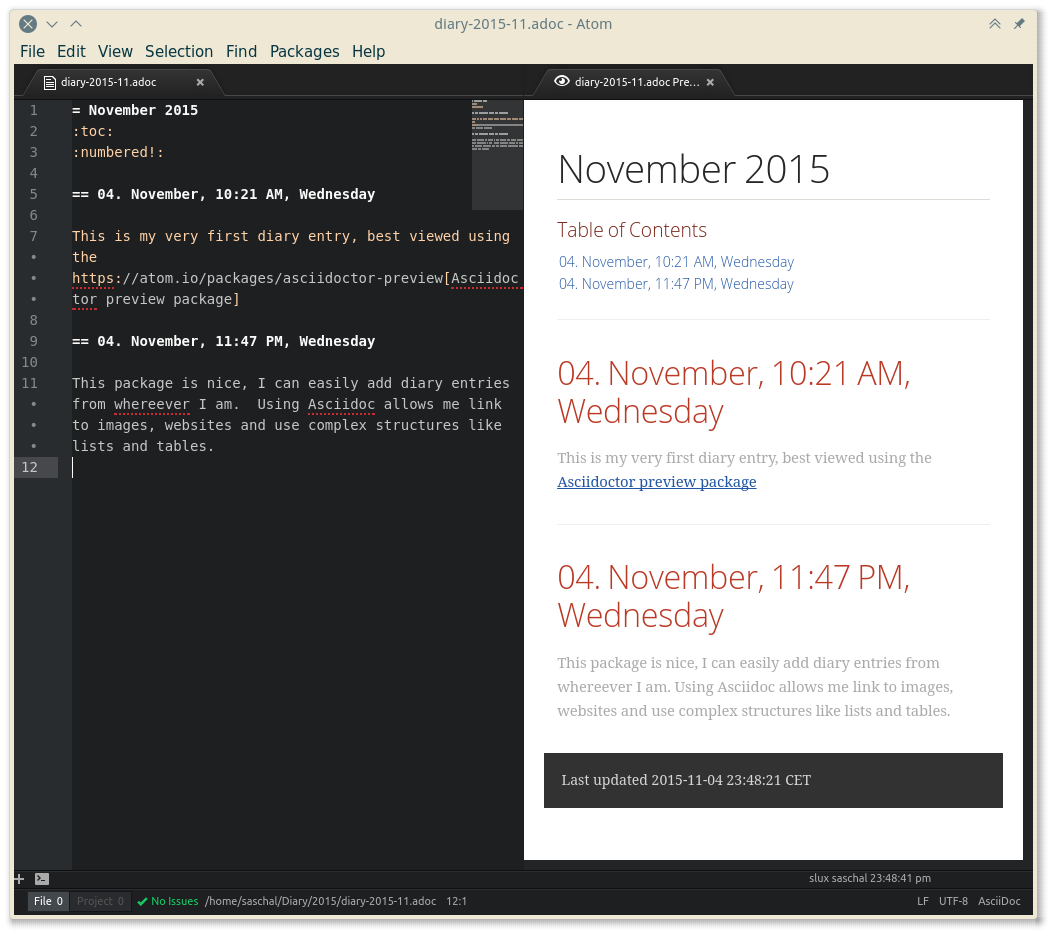
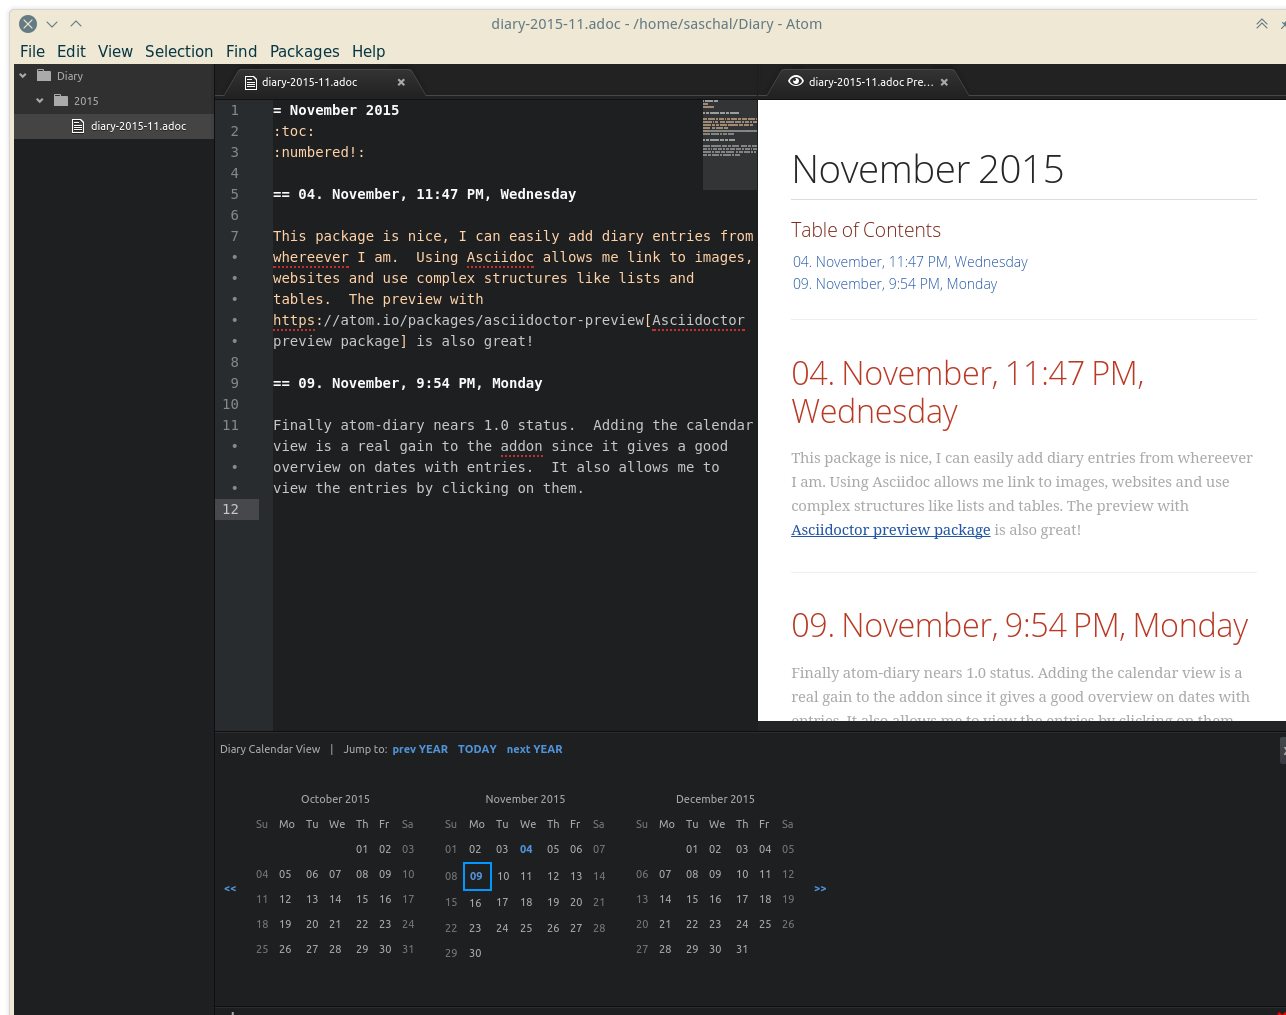
Make use of atom theme colors Improved README.md

diff --git a/styles/calendar-view.less b/styles/calendar-view.less
@@ -1,11 +1,8 @@
-@dark-grey: #8f8f8f;
-@light-grey: #d7d6d6;
-@dark-red: #8b0000;
 @white: #ffffff;
-@dark-blue: #3839d2;
 
 .calendar-titlebar {
   padding: 5px;
+  vertical-align: middle;
 }
 
 .calendar-content {
@@ -30,7 +27,7 @@
 }
 
 .cal-weekend {
-  color: @dark-grey;
+  color: @text-color-subtle;
 }
 
 .cal-monthtable {
@@ -54,13 +51,14 @@
 }
 
 .cal-today {
-  border: 2px solid @dark-red;
+  border: 2px solid @ui-site-color-2;
 }
 
 .cal-has-entry {
-  color: @dark-blue;
+  color: @text-color-info;
   font-weight: bold;
   &:hover {
-    background-color: @light-grey;
+    // color: @white;
+    background-color: @button-background-color;
   }
 }

diff --git a/README.md b/README.md
@@ -1,10 +1,11 @@
 # atom-diary package
 
-This is a simple package to create diary entries using an [Asciidoc](http://asciidoc.org/) or [Markdown](https://daringfireball.net/projects/markdown/) templates.
+Keep a diary in atom using markup like [Asciidoc](http://asciidoc.org/) or [Markdown](https://daringfireball.net/projects/markdown/).
 
-There will be one file for each month which contains all entries for this month.
-New entries for a day will be appended this file.  If there is no file
-for the relevant month, it will be created and all files are kept within a configurable directory.
+This addon allows you to keep a diary in atom - how great is that?  It has a nice three month calendar view for easy navigation to past entries and organizes your diary files in monthly files.
+
+* Add an entry for today: `Ctrl-Alt-E`
+* Open calendar view: `Ctrl-Shift-E`
 
 This addon is inspired by my Emacs module [diary-private.el](http://meta-x.de/software/diary-private.el)
 
@@ -12,12 +13,12 @@ You might want to install the [Asciidoctor preview package for Atom](https://ato
 
 ## Features
 
-![Screenshot of atom-diary](https://github.com/sluedecke/atom-diary/blob/master/screenshot.png)
+![Screenshot of atom-diary](https://raw.githubusercontent.com/sluedecke/atom-diary/master/screenshot.png)
 
-* Creates month based Asciidoc or Markdown files for diaries
-* Includes three month calendar view, days with entries are highlighted and clickable
+* `Ctrl-Alt-E`: Creates month based Asciidoc or Markdown files for diaries
+* `Ctrl-Shift-E`: Opens three month calendar view, days with entries are clickable
+* Calendar view allows to navigate back and forth between months and years
 * User can set a language for the diary files different from the system language
-* Automatically creates the diary base directory and one sub-directory per year
 
 ## TODO items
 
@@ -30,7 +31,7 @@ You might want to install the [Asciidoctor preview package for Atom](https://ato
   * [DONE] add close button to calendar view
   * [DONE] add navigation to calendar view (switching months)
   * [DONE] open file for a day when clicking on it
-  * make useful for light and dark themes
+  * [DONE] make colors follow selected atom theme
   * update calendar view when saving a diary file
 * Make diary printable
   * include meta Asciidoc/Markdown files to create a printable diary using include::\*[]
@@ -43,4 +44,4 @@ You might want to install the [Asciidoctor preview package for Atom](https://ato
 * can we make use of services to communicate between atom windows?
 * expand on ~/ and $HOME in baseDir configuration
 * Improve markup support by using file templates
-* Review licensing and consider switch to MIT License
+* Review licensing and consider switching to MIT License

diff --git a/CHANGELOG.md b/CHANGELOG.md
@@ -1,10 +1,15 @@
-## 0.9.0 -
+## 0.9.1 - The release is near
+* calendar view colors now follow the atom theme
+* changed hotkeys
+
+## 0.9.0 - Preparing 1.0
 * Added calendar view
   * shows three months
   * highlights days with entries and toggles day background on mouse hover on days with entries
   * days with entries can be clicked, will open respective month file and jumps to first entry for this day
   * has close button
   * has navigation buttons (previous month, next month, previous year, next year, today)
+  * makes use of atom theme colors
 * Added opening the diary basedir as a project (nothing else yet)
 * Reorganized TODOs in README.md
 * some refactoring of code to make it more modular
